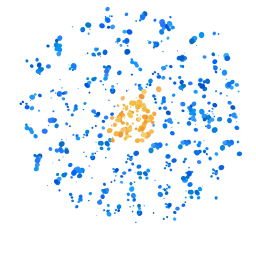
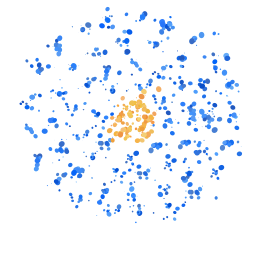
made images transparent and added background color; changed font to arial;

diff --git a/src/css/custom.css b/src/css/custom.css
@@ -3,10 +3,10 @@
  * bundles Infima by default. Infima is a CSS framework designed to
  * work well for content-centric websites.
  */
-
 /* You can override the default Infima variables here. */
 :root {
   --ifm-color-primary: #da9636;
+  --ifm-font-family-base: 'Arial', sans-serif; 
   --site-primary-hue-saturation: 35 69%;
   --ifm-color-primary-dark: #29784c;
   --ifm-color-primary-darker: #277148;
@@ -28,6 +28,10 @@
   --ifm-color-primary-lighter: #32d8b4;
   --ifm-color-primary-lightest: #4fddbf;
   --docusaurus-highlighted-code-line-bg: rgba(0, 0, 0, 0.3);
+}
+
+body {
+  background-color: #fdfaf6
 }
 
 h1 {

diff --git a/src/pages/index.tsx b/src/pages/index.tsx
@@ -25,7 +25,7 @@ function HeroBanner () {
           <img
             alt={translate({ message: 'Colorfull dots that form an arrow' })}
             className={styles.heroLogo}
-            src={useBaseUrl('/img/mess-to-arrow-full-colors.webp')}
+            src={useBaseUrl('/img/mess-to-arrow-full-colors-transparent.webp')}
             width="700"
             height="550"
           />

diff --git a/src/pages/styles.module.css b/src/pages/styles.module.css
@@ -116,7 +116,7 @@ html[data-theme='dark'] .topBannerTitleText {
 }
 
 .hero {
-  background-color: #ffffff;
+  background-color: #fdfaf6;
   padding: 48px;
 }
 
